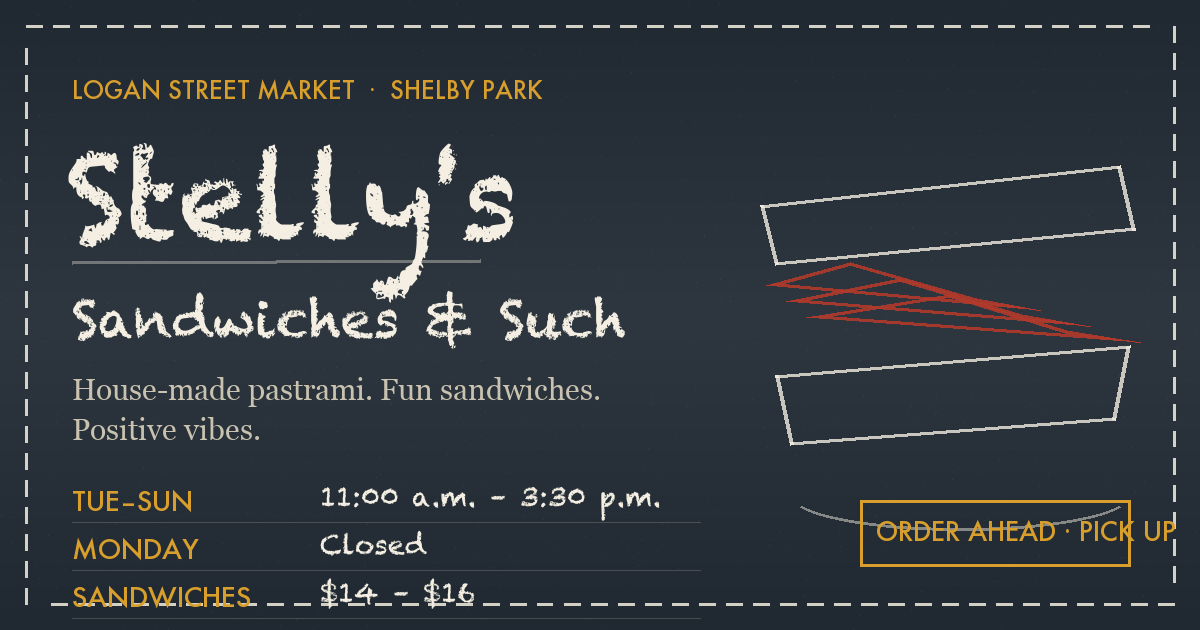
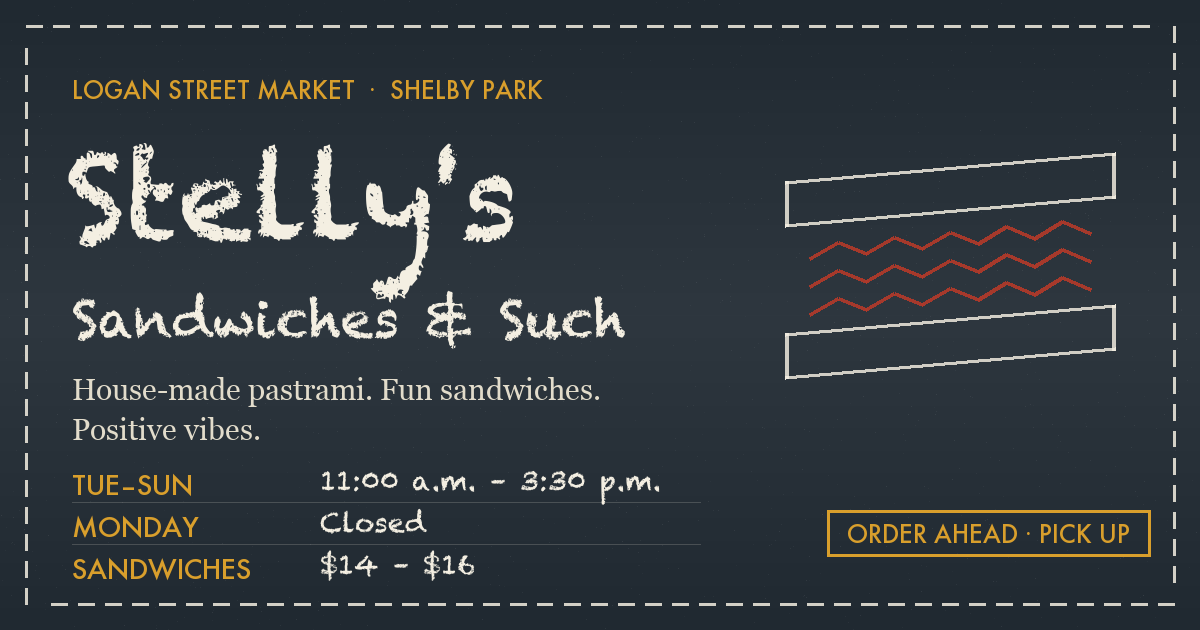
og.png: fix row/frame collision, size CTA to text, tidy sandwich sketch

diff --git a/make_og.py b/make_og.py
@@ -64,43 +64,55 @@ d.text((72, 74), "LOGAN STREET MARKET  ·  SHELBY PARK", font=cond(24), fill=MUS
 
 name_f = chalk(118)
 d.text((66, 122), "Stelly's", font=name_f, fill=CHALK)
-# chalk shadow stroke under the name
-d.line([(72, 262), (480, 260)], fill=CHALK + (90,), width=4)
 
 d.text((72, 286), "Sandwiches & Such", font=chalk(52), fill=CHALK)
 
 tag_f = serif(30)
-d.text((72, 372), "House-made pastrami. Fun sandwiches.", font=tag_f, fill=CHALKDIM)
-d.text((72, 412), "Positive vibes.", font=tag_f, fill=CHALKDIM)
+TAGC = (226, 220, 203)
+d.text((72, 372), "House-made pastrami. Fun sandwiches.", font=tag_f, fill=TAGC)
+d.text((72, 412), "Positive vibes.", font=tag_f, fill=TAGC)
 
 # hours/price board rows (chalk dashed separators)
 row_f = cond(27); rowv_f = chalk(27)
 rows = [("TUE–SUN", "11:00 a.m. – 3:30 p.m."),
         ("MONDAY", "Closed"),
         ("SANDWICHES", "$14 – $16")]
-y0 = 482
-for lab, val in rows:
+y0 = 466
+for idx, (lab, val) in enumerate(rows):
     d.text((72, y0), lab, font=row_f, fill=MUSTARD)
     d.text((320, y0 - 3), val, font=rowv_f, fill=CHALK)
-    d.line([(72, y0 + 40), (700, y0 + 40)], fill=(244, 239, 226, 46), width=1)
-    y0 += 48
+    if idx < len(rows) - 1:
+        d.line([(72, y0 + 36), (700, y0 + 36)], fill=(244, 239, 226, 46), width=1)
+    y0 += 42
 
-# chalk pastrami sandwich sketch, right side
-cx, cy = 940, 300
+# chalk pastrami sandwich sketch, right side — aligned slices, contained folds
+cx, cy = 950, 285
+SLOPE = -0.09  # consistent tilt for every element
+def yslant(x, base): return base + SLOPE * (x - cx)
 # top slice
-d.polygon([(cx-180, cy-95), (cx+180, cy-135), (cx+195, cy-70), (cx-165, cy-35)], outline=CHALK + (200,), width=4)
-# meat folds
-for i, off in enumerate([-60, -10, 40]):
-    pts = [(cx-150+off*0.4, cy-15+i*16), (cx-30+off, cy-38+i*16), (cx+90+off*0.9, cy-2+i*16), (cx+160+off, cy+10+i*16)]
-    d.polygon(pts, outline=PAPRIKA + (230,), width=4)
+d.polygon([(cx-165, yslant(cx-165, cy-118)), (cx+165, yslant(cx+165, cy-118)),
+           (cx+165, yslant(cx+165, cy-72)),  (cx-165, yslant(cx-165, cy-72))],
+          outline=CHALK + (210,), width=4)
+# meat folds: three gentle stacked waves, strictly inside the sandwich width
+for i, base in enumerate([cy-46, cy-18, cy+10]):
+    pts = []
+    for x in range(-140, 141, 28):
+        pts.append((cx + x, yslant(cx + x, base) + (7 if (x // 28) % 2 else -7)))
+    d.line(pts, fill=PAPRIKA + (235,), width=4)
 # bottom slice
-d.polygon([(cx-165, cy+75), (cx+190, cy+45), (cx+175, cy+120), (cx-150, cy+145)], outline=CHALK + (200,), width=4)
-# chalk underline flourish
-d.arc([(cx-150, cy+160), (cx+190, cy+230)], 20, 160, fill=CHALK + (120,), width=3)
+d.polygon([(cx-165, yslant(cx-165, cy+34)), (cx+165, yslant(cx+165, cy+34)),
+           (cx+165, yslant(cx+165, cy+80)),  (cx-165, yslant(cx-165, cy+80))],
+          outline=CHALK + (210,), width=4)
 
-# mustard corner stamp
-d.rectangle([860, 500, 1130, 566], outline=MUSTARD, width=3)
-d.text((876, 514), "ORDER AHEAD · PICK UP", font=cond(26), fill=MUSTARD)
+# mustard corner stamp — box sized to the measured text
+cta_f = cond(24)
+cta_txt = "ORDER AHEAD · PICK UP"
+tb = d.textbbox((0, 0), cta_txt, font=cta_f)
+tw, th = tb[2] - tb[0], tb[3] - tb[1]
+bx2, by2 = 1150, 556
+bx1, by1 = bx2 - tw - 40, by2 - th - 26
+d.rectangle([bx1, by1, bx2, by2], outline=MUSTARD, width=3)
+d.text((bx1 + 20 - tb[0], by1 + 13 - tb[1]), cta_txt, font=cta_f, fill=MUSTARD)
 
 img.save(OUT, "PNG", optimize=True)
 print("wrote", OUT, os.path.getsize(OUT), "bytes")
